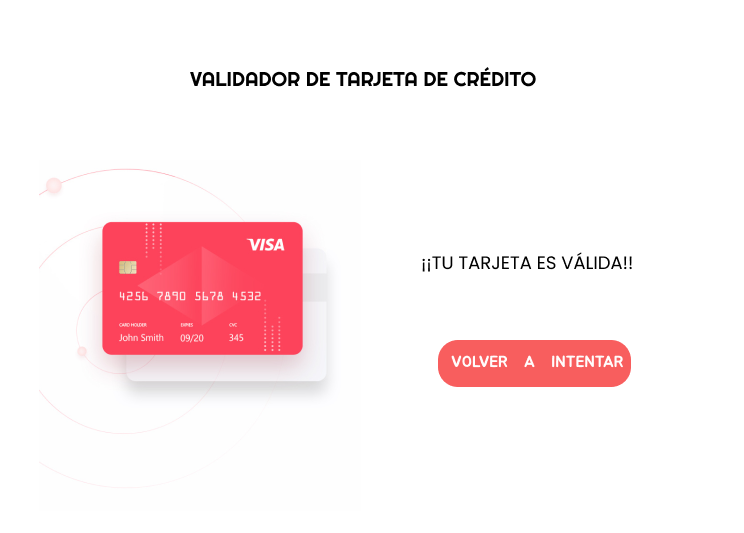
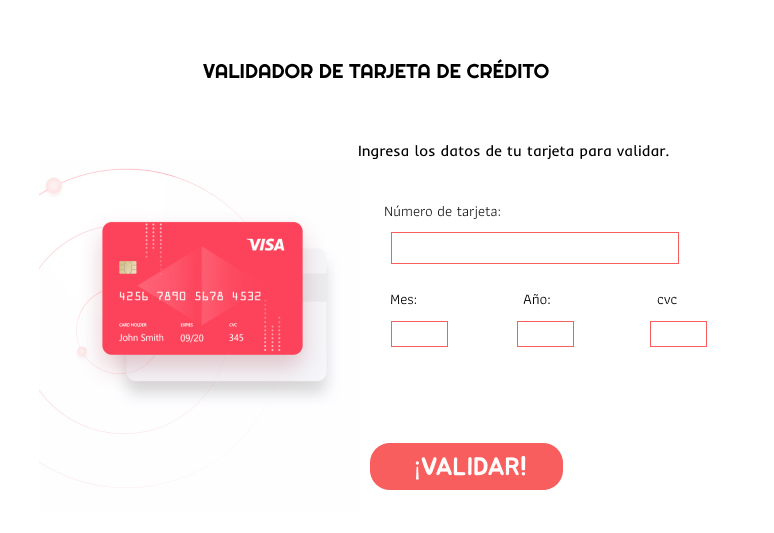
validador.js terminado

diff --git a/src/validator.js b/src/validator.js
@@ -1,54 +1,41 @@
 const validator = {
   // ...
-  //isValid:(numTarjeta)=>{
-  };
-    const numTarjeta = '455636460793561 6'
-    let arr = numTarjeta.split('').reverse()
+  isValid:(creditCardNumber)=>{
+
+    let arr = creditCardNumber.split('').reverse()
     let suma = 0;
-    let n = 0;
-    for(let i=0; i<arr.length; i++){
-      if(i%2 === 0){
-        n= parseInt(arr[i])*2;
-        if(n>=10){
-          n= (n-10)+1
-        } 
-      } else{
-        n= parseInt(arr[i])
+  let n = 0;
+  for(let i=0; i<arr.length; i++){
+    if(i%2 === 0){
+      n= parseInt(arr[i])*2;
+      if(n>=10){
+        n= (n-10)+1
       }
-      suma = suma + n
-    }
-  
-    if(suma % 10 === 0){
-       console.log('tarjeta valida')
-     }else{
-      console.log('tarjeta invalida')
-      }
-
- // maskify:(numTarjeta)=>{
-    //for(let i=0; i<; i++){
-
-      
-
-    //}
- //}
-
- /*const numTarjeta = '4556364607935616';
-let arr = numTarjeta.split('')
-let string = '';
-
-for(i=0; i < arr.length; i++){
-  if(i < 12){
-    arr[i] = '#'
-    //string = string + arr[i]
-  }else{
-   arr[i]
-   string = string + arr[i]
+  } else{
+    n= parseInt(arr[i])
   }
-} */
+  suma = suma + n
+  }
+  return suma % 10 === 0 ? true : false
+  },
 
+     
 
-
-
-
+ maskify : (creditCardNumber)=>{
+    let arr = creditCardNumber.split('')
+    let string = '';
+    
+    for(i=0; i < arr.length; i++){
+      if(i < 12){
+        arr[i] = '#'
+        string = string + arr[i]
+      }else{
+        string = string + arr[i]
+      }
+    } return string
+  }
+  
+};
+  
 export default validator;
 

diff --git a/src/index.js b/src/index.js
@@ -1,18 +1,14 @@
 import validator from './validator.js';
-
-<<<<<<< HEAD
-=======
-
->>>>>>> 3ccbffc9eb11d7f9d3544e86f1c1eb38fd4842f9
+//console.log(validator)
+//console.log(validator.isValid)
+//console.log(validator.isValid('4556364607935616'))
 const validar = document.getElementById('validar')
-
 validar.addEventListener('click',() =>{
-const cardNumber = document.getElementById('cardNumber').value
-const cardData = document.getElementById('validar')
-validar.addEventListener('click',() =>{
-
-})
+    const cardNumber = document.getElementById('cardNumber').value 
+    console.log(cardNumber)
+    console.log(validator.isValid(cardNumber))
 cardData.style.display='none'
-validated.style.display='none'
+validated.style.display='block'
 
 });
+

diff --git a/src/index.html b/src/index.html
@@ -19,7 +19,7 @@
       <h3>Ingresa los datos de tu tarjeta para validar</h3>
       <div class="numero  ">
         <label for="card_number">Número de tarjeta:
-          <input type="texto" id="cardNumber" required>
+          <input type="texto" id="cardNumber" value="" required>
         </label>
       </div>
       <label for="mes">Mes:
@@ -34,7 +34,7 @@
       <button type="button" id="validar" class="validar">¡VALIDAR!</button>
     </div>
     <div class="validado" id="validated">
-      <p>¡¡TU TARJETA ES VÁLIDA</p>
+      <p id ="numValidado"></p>
       <button>volver</button>
     </div>
   </main>

diff --git a/README.md b/README.md
@@ -161,8 +161,8 @@ Debe contener lo siguiente:
 ###### 4. Agrega un resumen del feedback recibido indicando las mejoras a realizar.
 > La coach me indicó que sea más ordenada al momento de hacer mi prototipo, preguntarme ,¿Quién es mi cliente?, ¿En que ayuda al cliente y al usuario?
 ###### 5. Imágen del prototipo final.
-<img src ='img/prototipo2.png'>
-<img src = "img/prototipo1.png" >
+<img src ='img/prototipo1.png'>
+<img src = "img/prototipo2.png" >
 
 #### Visualmente (HTML y CSS)
 
